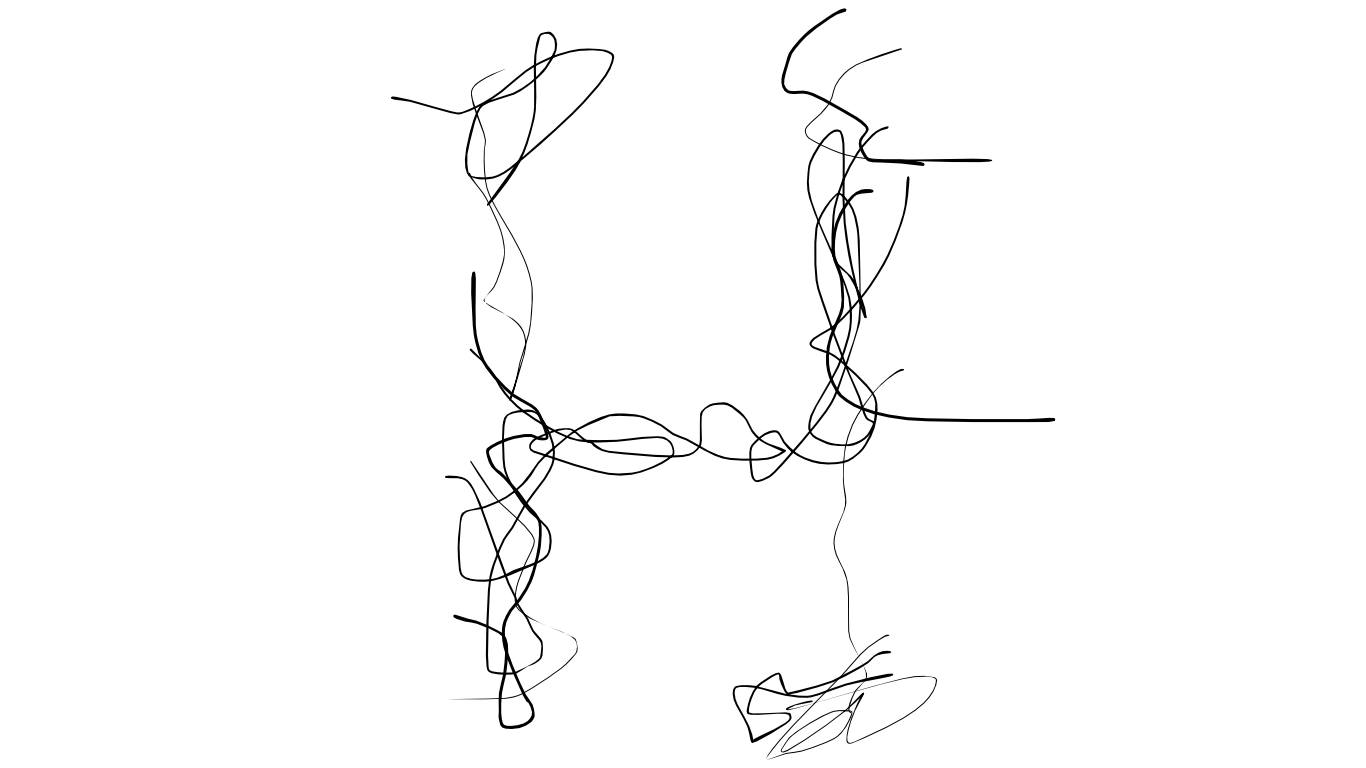
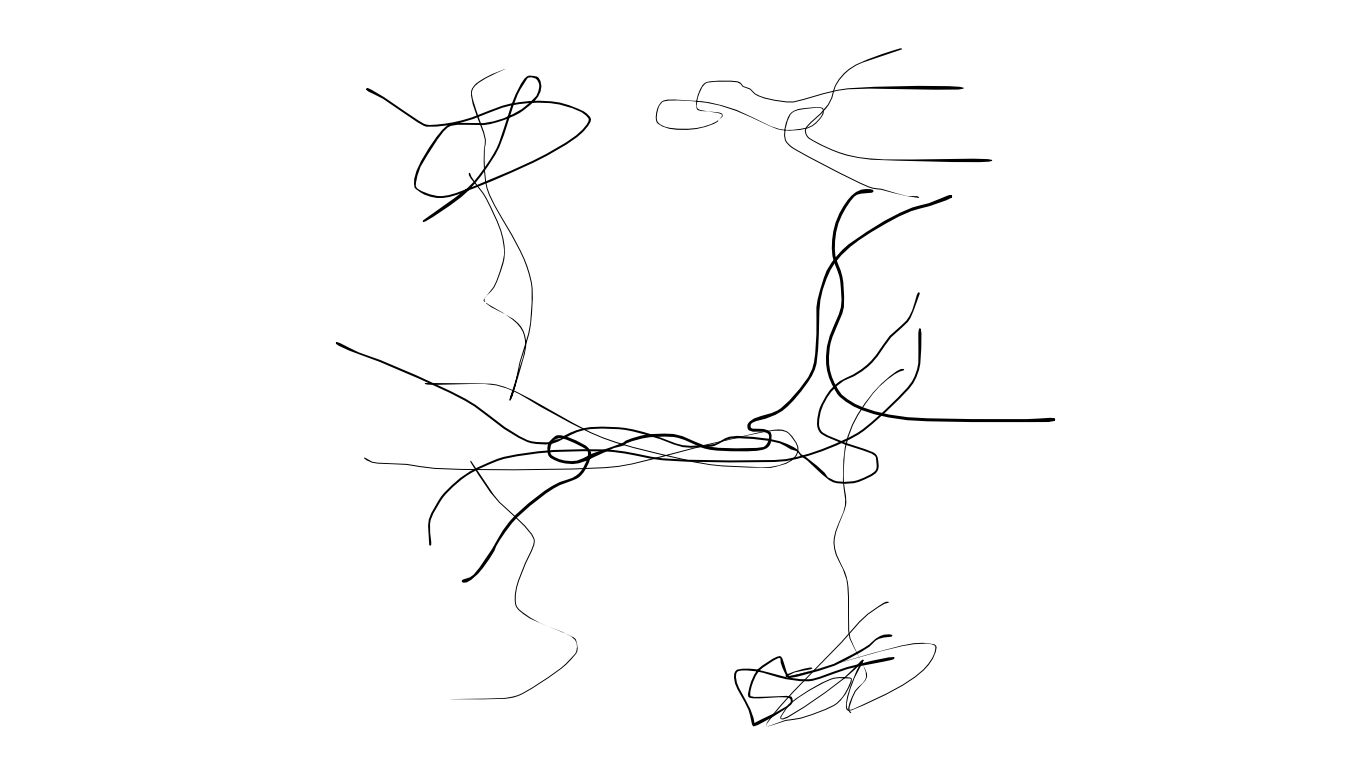
книга класса 2

diff --git a/index.html b/index.html
@@ -327,6 +327,10 @@ html.m .c-cta{order:4;position:relative!important;left:auto!important;bottom:aut
    the frame was drawn over a 375x693 template, which sat at 509.7,64.1 / 357.5x660.7 px on that 1366x768 canvas */
 .fmtM{display:none}
 html.m #choice .design{padding:0}
+/* the drawing may stick out above and below onto the neighbouring screens: only the sides are clipped */
+html.m #choice{overflow-x:clip;overflow-y:visible;z-index:2}
+html.m #choice .design{overflow:visible}
+.fmtM .mdraw{overflow:visible}
 html.m #choice .msc,html.m #choice .fmtTabs,html.m #fmtBook,html.m #fmtClassic,html.m #choice .c-cta{display:none!important}
 /* everything is placed in % of the drawing, so the text stays in the gaps the frame leaves at any phone width */
 html.m .fmtM{display:block;position:relative;width:100%;aspect-ratio:375/693}

diff --git a/site/index.html b/site/index.html
@@ -327,6 +327,10 @@ html.m .c-cta{order:4;position:relative!important;left:auto!important;bottom:aut
    the frame was drawn over a 375x693 template, which sat at 509.7,64.1 / 357.5x660.7 px on that 1366x768 canvas */
 .fmtM{display:none}
 html.m #choice .design{padding:0}
+/* the drawing may stick out above and below onto the neighbouring screens: only the sides are clipped */
+html.m #choice{overflow-x:clip;overflow-y:visible;z-index:2}
+html.m #choice .design{overflow:visible}
+.fmtM .mdraw{overflow:visible}
 html.m #choice .msc,html.m #choice .fmtTabs,html.m #fmtBook,html.m #fmtClassic,html.m #choice .c-cta{display:none!important}
 /* everything is placed in % of the drawing, so the text stays in the gaps the frame leaves at any phone width */
 html.m .fmtM{display:block;position:relative;width:100%;aspect-ratio:375/693}
